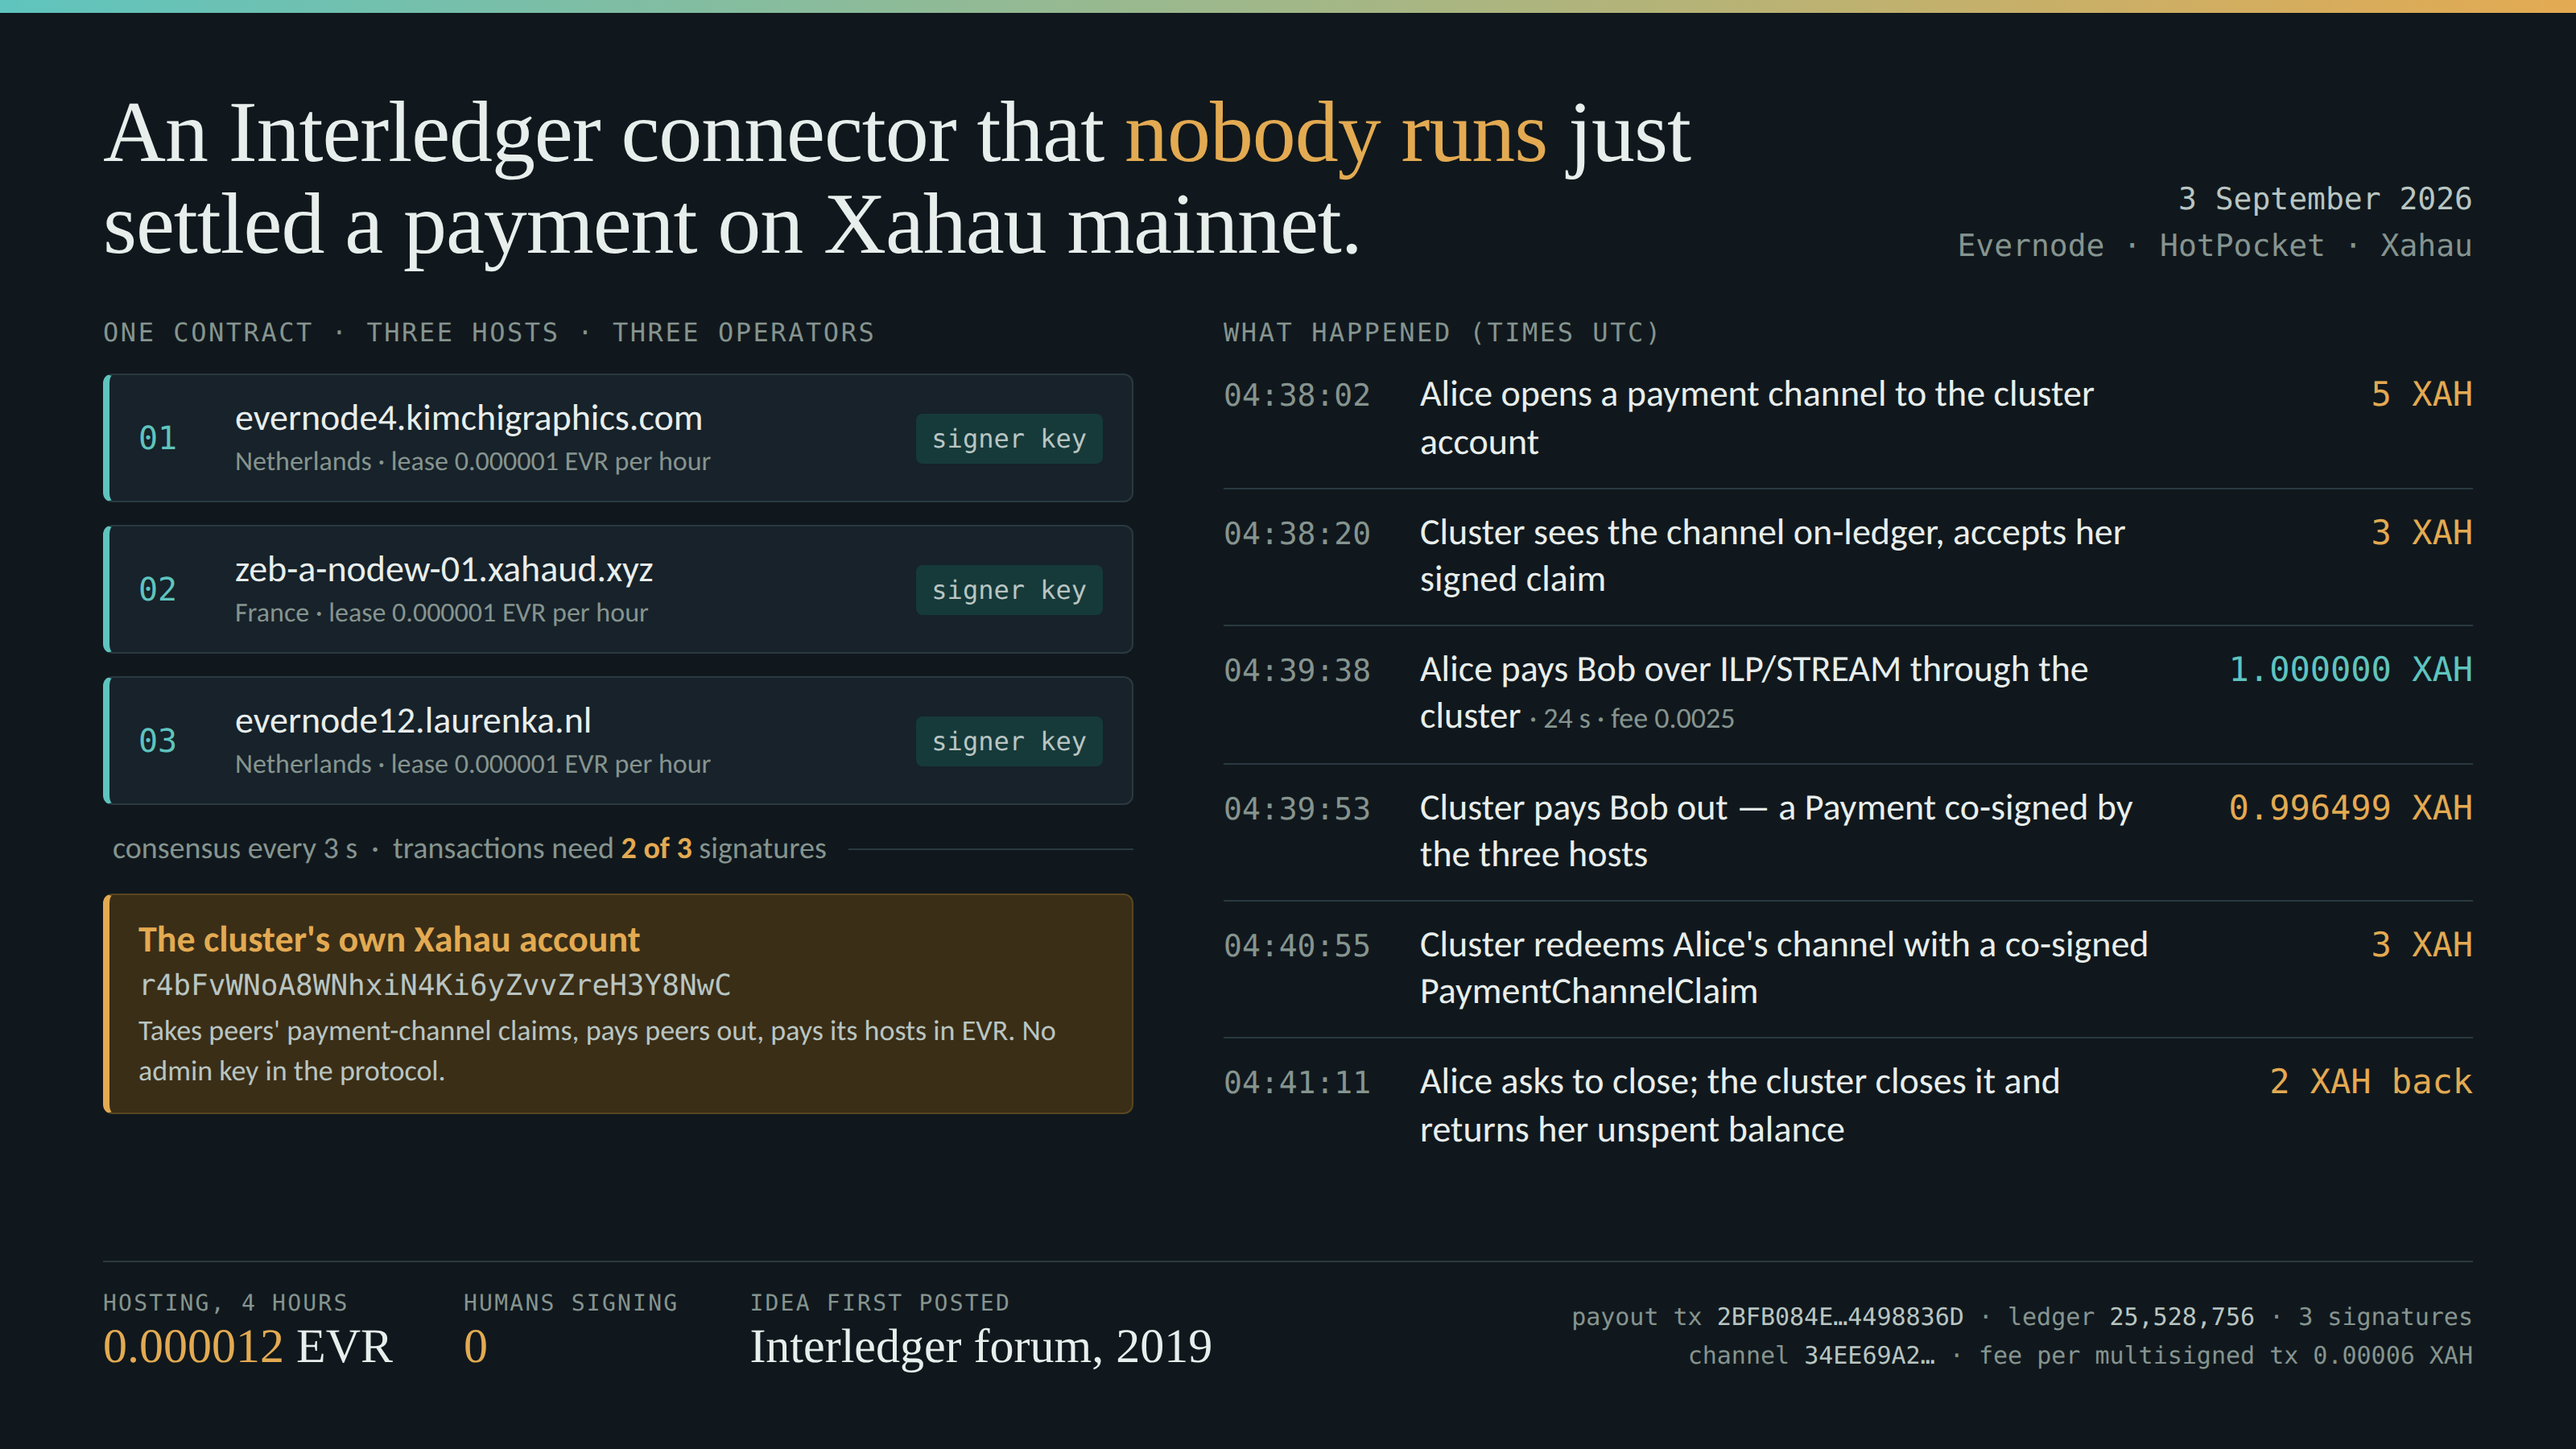
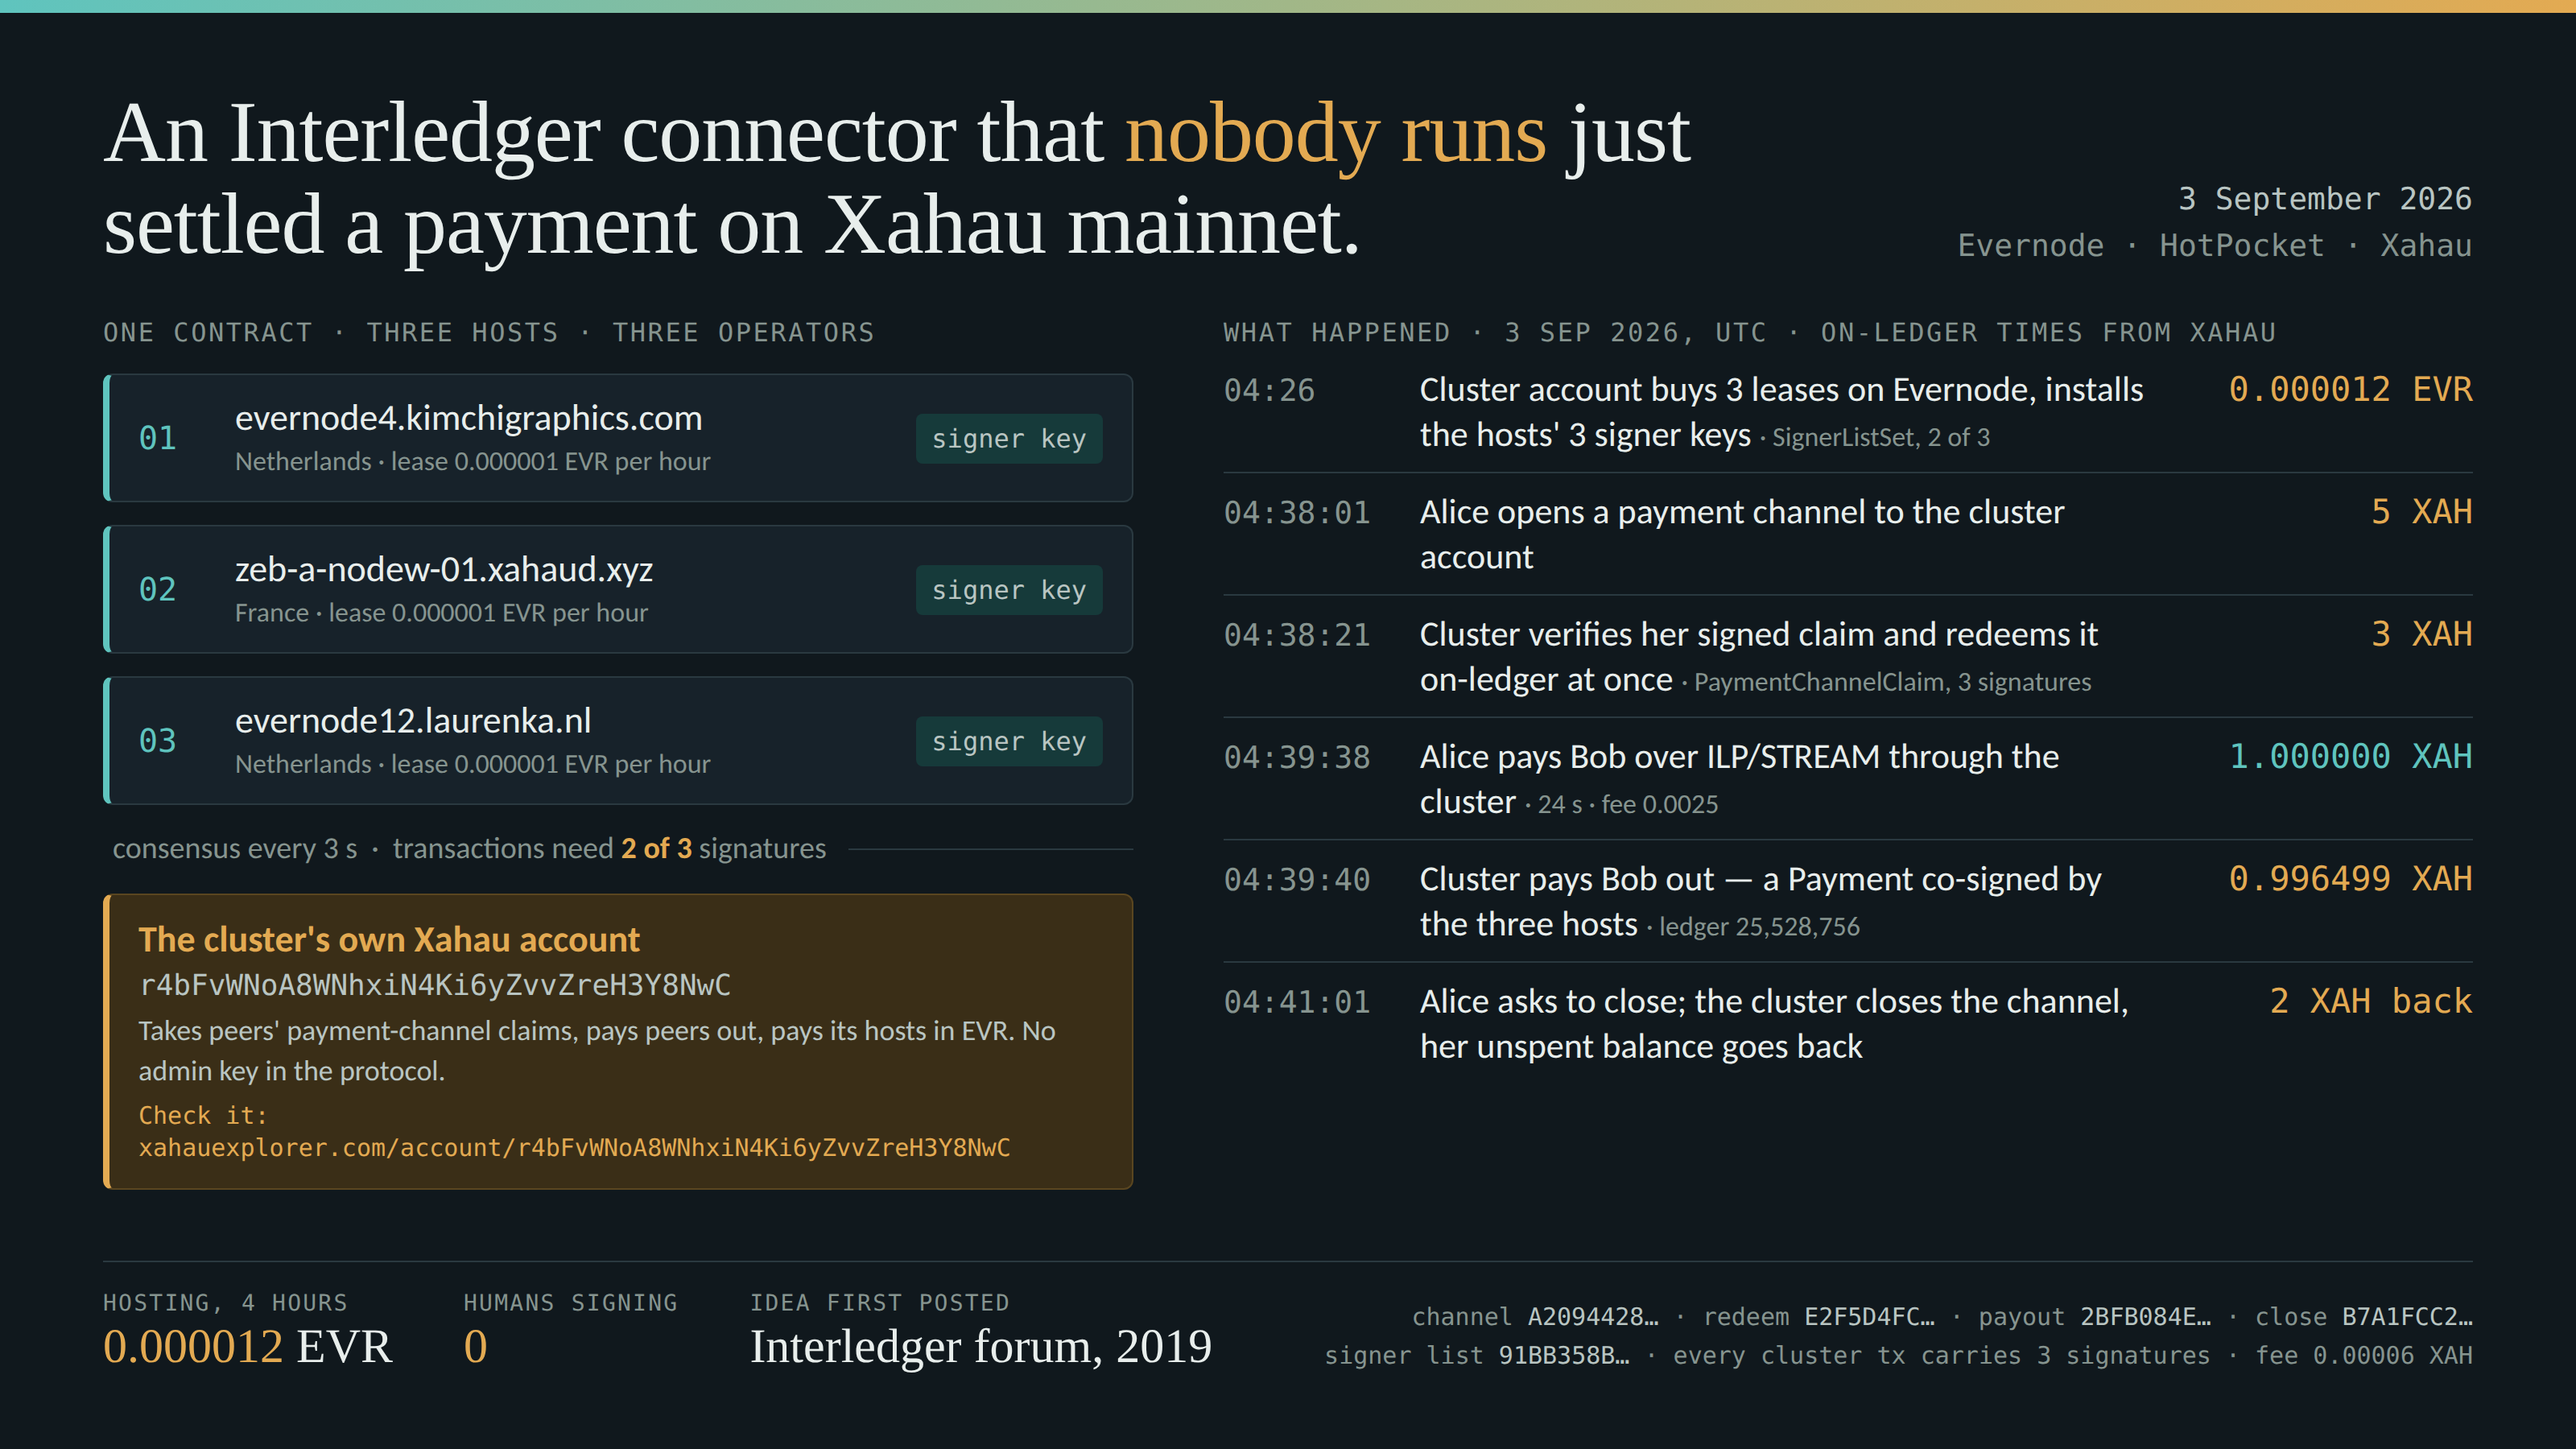
docs: proof.md (every mainnet tx with hashes and signers)
Explorer screenshots, tweet card with ledger times.

diff --git a/docs/tweet-card.html b/docs/tweet-card.html
@@ -34,14 +34,15 @@
   .acct .t { font-size: 23px; color: var(--amber); font-weight: 600; }
   .acct .a { font-family: var(--mono); font-size: 18px; color: var(--ink2); margin-top: 4px; }
   .acct .d { font-size: 18px; color: var(--ink2); margin-top: 5px; line-height: 1.35; }
+  .acct .verify { font-family: var(--mono); font-size: 15px; color: var(--amber); display: inline-block; margin-top: 6px; }
 
   /* right: timeline */
   .timeline { display: flex; flex-direction: column; }
-  .row { display: grid; grid-template-columns: 104px 1fr 180px; gap: 18px; align-items: baseline; padding: 13px 0; border-bottom: 1px solid var(--rule); }
+  .row { display: grid; grid-template-columns: 104px 1fr 180px; gap: 18px; align-items: baseline; padding: 10px 0; border-bottom: 1px solid var(--rule); }
   .row:last-child { border-bottom: none; }
   .row .t { font-family: var(--mono); font-size: 19px; color: var(--muted); }
-  .row .e { font-size: 23px; line-height: 1.27; }
-  .row .e small { color: var(--muted); font-size: 18px; }
+  .row .e { font-size: 22px; line-height: 1.25; }
+  .row .e small { color: var(--muted); font-size: 17px; }
   .row .v { font-family: var(--mono); font-size: 21px; text-align: right; color: var(--amber); white-space: nowrap; }
   .row .v.t2 { color: var(--teal); }
 
@@ -70,18 +71,18 @@
     <div class="acct">
       <div class="t">The cluster's own Xahau account</div>
       <div class="a">r4bFvWNoA8WNhxiN4Ki6yZvvZreH3Y8NwC</div>
-      <div class="d">Takes peers' payment-channel claims, pays peers out, pays its hosts in EVR. No admin key in the protocol.</div>
+      <div class="d">Takes peers' payment-channel claims, pays peers out, pays its hosts in EVR. No admin key in the protocol.<br><span class="verify">Check it: xahauexplorer.com/account/r4bFvWNoA8WNhxiN4Ki6yZvvZreH3Y8NwC</span></div>
     </div>
   </div>
 
   <div class="timeline">
-    <div class="label">What happened (times UTC)</div>
-    <div class="row"><div class="t">04:38:02</div><div class="e">Alice opens a payment channel to the cluster account</div><div class="v">5 XAH</div></div>
-    <div class="row"><div class="t">04:38:20</div><div class="e">Cluster sees the channel on-ledger, accepts her signed claim</div><div class="v">3 XAH</div></div>
+    <div class="label">What happened · 3 Sep 2026, UTC · on-ledger times from Xahau</div>
+    <div class="row"><div class="t">04:26</div><div class="e">Cluster account buys 3 leases on Evernode, installs the hosts' 3 signer keys <small>· SignerListSet, 2 of 3</small></div><div class="v">0.000012 EVR</div></div>
+    <div class="row"><div class="t">04:38:01</div><div class="e">Alice opens a payment channel to the cluster account</div><div class="v">5 XAH</div></div>
+    <div class="row"><div class="t">04:38:21</div><div class="e">Cluster verifies her signed claim and redeems it on-ledger at once <small>· PaymentChannelClaim, 3 signatures</small></div><div class="v">3 XAH</div></div>
     <div class="row"><div class="t">04:39:38</div><div class="e">Alice pays Bob over ILP/STREAM through the cluster <small>· 24 s · fee 0.0025</small></div><div class="v t2">1.000000 XAH</div></div>
-    <div class="row"><div class="t">04:39:53</div><div class="e">Cluster pays Bob out — a Payment co-signed by the three hosts</div><div class="v">0.996499 XAH</div></div>
-    <div class="row"><div class="t">04:40:55</div><div class="e">Cluster redeems Alice's channel with a co-signed PaymentChannelClaim</div><div class="v">3 XAH</div></div>
-    <div class="row"><div class="t">04:41:11</div><div class="e">Alice asks to close; the cluster closes it and returns her unspent balance</div><div class="v">2 XAH back</div></div>
+    <div class="row"><div class="t">04:39:40</div><div class="e">Cluster pays Bob out — a Payment co-signed by the three hosts <small>· ledger 25,528,756</small></div><div class="v">0.996499 XAH</div></div>
+    <div class="row"><div class="t">04:41:01</div><div class="e">Alice asks to close; the cluster closes the channel, her unspent balance goes back</div><div class="v">2 XAH back</div></div>
   </div>
 
   <div class="foot">
@@ -90,7 +91,7 @@
       <div class="stat"><div class="k">Humans signing</div><div class="v"><span>0</span></div></div>
       <div class="stat"><div class="k">Idea first posted</div><div class="v">Interledger forum, 2019</div></div>
     </div>
-    <div class="tx">payout tx <b>2BFB084E…4498836D</b> · ledger <b>25,528,756</b> · 3 signatures<br>channel <b>34EE69A2…</b> · fee per multisigned tx 0.00006 XAH</div>
+    <div class="tx">channel <b>A2094428…</b> · redeem <b>E2F5D4FC…</b> · payout <b>2BFB084E…</b> · close <b>B7A1FCC2…</b><br>signer list <b>91BB358B…</b> · every cluster tx carries 3 signatures · fee 0.00006 XAH</div>
   </div>
 </div>
 </body></html>

diff --git a/docs/proof.md b/docs/proof.md
@@ -1,0 +1,61 @@
+# Verify the mainnet run yourself
+
+Everything the cluster did on 3 September 2026 is on Xahau mainnet, signed by the three
+signer keys that exist only inside the three HotPocket instances. Nothing below needs our
+logs; every line can be checked on a public explorer. Times are UTC ledger close times.
+
+## The cluster's account
+
+`r4bFvWNoA8WNhxiN4Ki6yZvvZreH3Y8NwC`
+
+- <https://xahauexplorer.com/account/r4bFvWNoA8WNhxiN4Ki6yZvvZreH3Y8NwC>
+- "Account control · multisig": multi-sign enabled, threshold **2**, three signers of weight 1:
+  `rDBMkZ5kB6i1VGF9tqgfb4UPZNNSH2RfV`, `rn6nEpGCb8xgaWeM6EbDEBqxV6VnzPuDmL`,
+  `rN5vZKscbVZ5hnYRcReMCPocqH9TmFpbKZ`. The three signer accounts are not funded and hold
+  nothing; they are only the identities of the keys HotPocket generated on each host.
+- Owner objects (25): the EVR trust line, the signer list and 23 Evernode lease URITokens —
+  the three leases of this cluster plus the leases of the seven attempts that failed before it
+  (see `deploy/testnet/README.md`). That is why the explorer shows 5.98 XAH spendable of 11.98.
+- The account was funded by hand with 10 XAH and 1 EVR; the balance went 9.981223 → 11.984604 XAH
+  during the run (+3 redeemed, −0.996499 paid to Bob, −0.00018 fees).
+
+## Transactions of the account, oldest first
+
+| UTC | Ledger | Type | Hash | What it is |
+|---|---|---|---|---|
[7 lines of base64/hex data omitted]
+
+Open any of them as `https://xahauexplorer.com/tx/<hash>`. The explorer lists the signers on
+each cluster transaction; "Raw data" shows `SigningPubKey: ""` (no master-key signature) and
+the three `Signers` entries with the signer accounts from the signer list.
+
+Alice's and Bob's accounts tell the same story from the other side: Alice
+`rLwxGWqbvXKo8n8VfgqHDZ1ijKBNUn63rD` went 2.999988 → 4.999976 XAH when the channel closed
+(her own close request is on her account, seconds before the cluster's close); Bob
+`rpjRMytx1WoHraemK1zGXfxkokY1JaPcit` went 2 → 2.996499 XAH.
+
+## The hosts
+
+The three hosts are ordinary registered Evernode hosts, chosen for reputation, open ports and
+being run by three different operators. Their registry entries (reputation 252, lease
+0.000001 EVR/moment, version 0.12.1, countries NL / FR / NL) are visible on the community
+Evernode dashboard at <https://xahau.xrplwin.com/evernode> (search the host address).
+
+## What this does and does not prove
+
+It proves that a HotPocket contract running on three independently operated hosts observed
+the ledger, verified an off-ledger payment-channel claim, routed an ILP/STREAM payment, and
+produced valid multisigned Xahau transactions under 2-of-3 consensus, with no operator
+process anywhere and no human signing anything after the cluster was created.
+
+It does not (yet) prove that nobody *could* intervene: the account's master key is still
+enabled and held by the person who funded it. Disabling it (`AccountSet` with
+`asfDisableMaster`) would make the signer list the only control, at the price of locking the
+account for good once the lease runs out unless the contract pays everything out first.
+The lease itself was 4 hours; the contract did not have to renew it during the run.

diff --git a/README.md b/README.md
@@ -20,6 +20,8 @@ signer keys under consensus (2-of-3), then closed the channel on her request and
 unspent 2 XAH. The deterministic core, the peer plugin, the multi-node simulator and the STREAM
 end-to-end are tested (`npm test`, 19 tests); the local `hpdevkit` run is in `deploy/local/`,
 the Evernode kit and the mainnet transcript in [deploy/testnet/README.md](deploy/testnet/README.md).
+Every mainnet transaction, with hashes and signers, is laid out for independent checking in
+[docs/proof.md](docs/proof.md).
 
 ```
 npm install --ignore-scripts      # blake3 (a hotpocket-js-client dep) tries to download a native build otherwise
